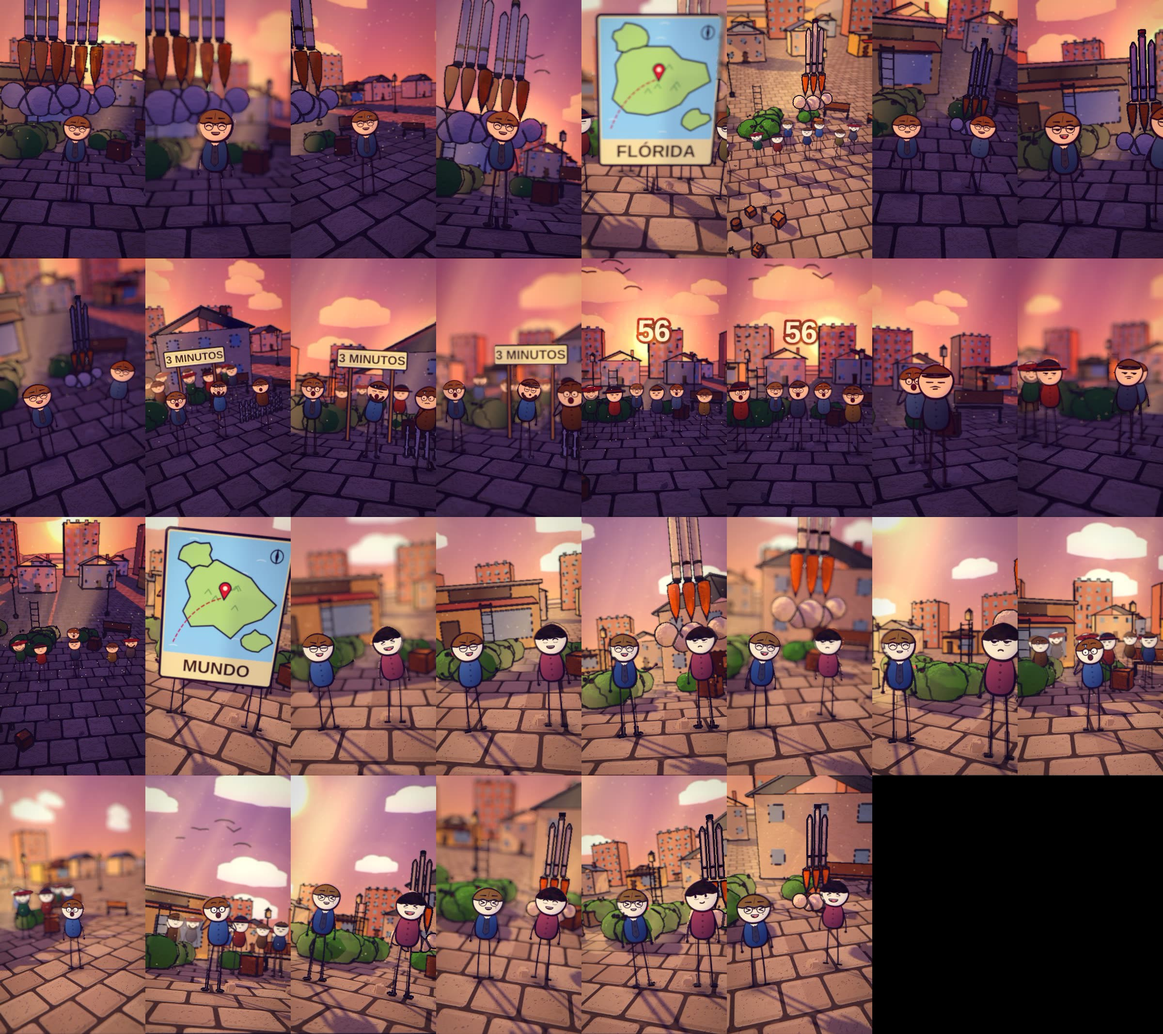
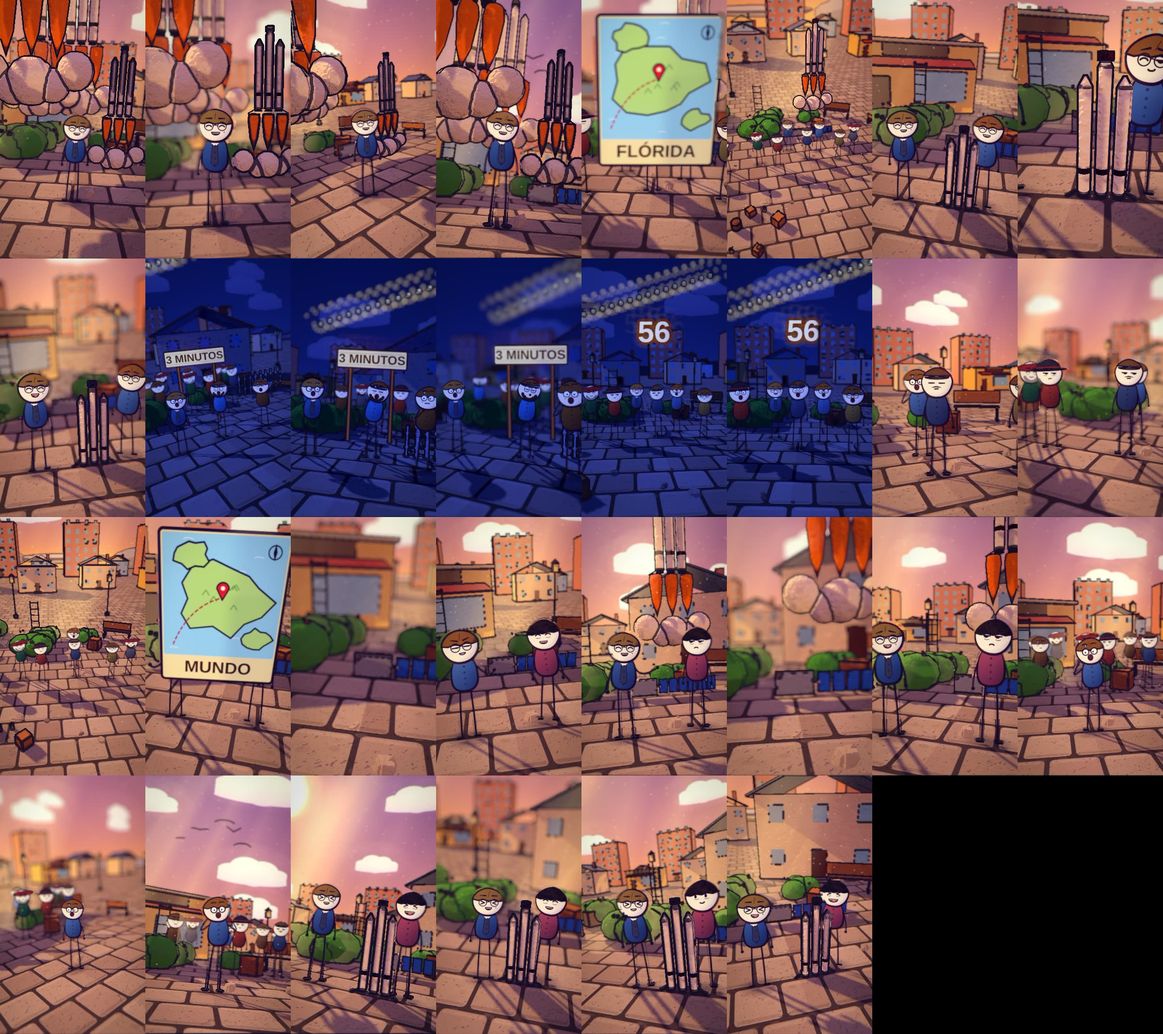
merge do principal (modelos Starlink); PF 04 com fila de luzes de noite
Claude-Session: https://claude.ai/code/session_01HE8Dy3Tz5Mgz6d3rSUrMHS

diff --git a/ferramenta-shorts/web/story.js b/ferramenta-shorts/web/story.js
@@ -29,19 +29,19 @@ const SPEC = {
     JOR2: (v = 0, e = {}) => ({ _id: "jor2", jacket: "#9a4a5a", pants: "#2a2d33", boots: "#1b1b1f", hat: "hair", hair: "#1a1a1a", fixo: true, skin: ["#ffe2c2", "#f5c9a0", "#ecd0b6", "#c99067"][v % 4], ...(((v + 285) % 6 === 4 && false) ? { glasses: true } : {}), ...(([1, 5].includes((v + 285) % 6) && false) ? { beard: ['#3a2a1f', '#6b4a2a', '#8a8a86'][(v + 4) % 3] } : {}), ...((((v + 285) % 6 === 3) && false) ? { moustache: ['#4a3020', '#2a201a', '#8a8a86'][v % 3] } : {}), ...e }),
     POV: (v = 0, e = {}) => ({ _id: "pov", jacket: "#3f6fb5", pants: "#4a3a2a", boots: "#1b1b1f", skin: ["#ffe2c2", "#f5c9a0", "#ecd0b6", "#c99067"][v % 4], jacket: ["#3f6fb5", "#6a4a2a", "#2a5a3a", "#8a3a2a", "#3a4a6a", "#7a6a3a", "#5a5a62", "#b0524a"][v % 8], hat: ["cap", "hair", "beret", "bowler"][v % 4], ...(((v + 245) % 6 === 4 && true) ? { glasses: true } : {}), ...(([1, 5].includes((v + 245) % 6) && true) ? { beard: ['#3a2a1f', '#6b4a2a', '#8a8a86'][(v + 3) % 3] } : {}), ...((((v + 245) % 6 === 3) && true) ? { moustache: ['#4a3020', '#2a201a', '#8a8a86'][v % 3] } : {}), ...e }),
     AST: (v = 0, e = {}) => ({ _id: "ast", jacket: "#3a5a8a", pants: "#2a2d33", boots: "#1b1b1f", hat: "hair", hair: "#8a6a3a", glasses: true, tie: "#3b3f52", fixo: true, skin: ["#ffe2c2", "#f5c9a0", "#ecd0b6", "#c99067"][v % 4], ...(((v + 232) % 6 === 4 && false) ? { glasses: true } : {}), ...(([1, 5].includes((v + 232) % 6) && false) ? { beard: ['#3a2a1f', '#6b4a2a', '#8a8a86'][(v + 3) % 3] } : {}), ...((((v + 232) % 6 === 3) && false) ? { moustache: ['#4a3020', '#2a201a', '#8a8a86'][v % 3] } : {}), ...e }) },
-  assets: ["buildings/house_two", "buildings/shop", "kit/falcon_air", "kit/rocket", "nature/picket_fence"],
+  assets: ["buildings/house_two", "buildings/shop", "kit/falcon_air", "kit/rocket", "kit/starlink_sat", "kit/starlink_train", "nature/picket_fence"],
   kicks: [], flashes: [],
   shots: [
-    S('b0', A[0], A[1] - 1, X, "dusk", { h: 2.3, d0: 8.4, d1: 7.4, hero: { hero: 'any', frame: 'medium', minH: 0.07, main: 1 }, actors: [pp(X, "AST", 0, 0.0, 1.3, "grin", { pose: 'talk' })], props: [{ asset: "buildings/shop", at: [X + -4.8, -11.0], s: 1.05, ry: 0.35, drop: false }, { asset: "kit/falcon_air", at: [X + 0, -3], s: 1.0, drop: false }, { asset: "kit/falcon_air", at: [X + 1.3, 1.0], s: 0.5, drop: false }, { asset: "kit/falcon_air", at: [X + -1.7, -0.5], s: 1.3, drop: false }, { asset: "kit/falcon_air", at: [X + -1.7, -2.3], s: 1.0, drop: false }], fx: [{ k: 'birds', a: A[0], b: A[1] - 1, at: [X, DK + 4.5, -30], n: 4, dir: 1, off: 8 }] }),
-    { ...{ ...S('b1', A[1], A[2] - 1, X, "golden", { h: 2.4, d0: 11.0, d1: 27.0, el: 10, fov: 46, cx: 0.0, cz: -1.5, hero: { hero: 'none', wide: true }, vary: false, nocut: true, trans: 'dissolve', actors: [pp(X, "AST", 0, -1.15, -0.4, "smug"), pp(X, "JOR", 0, 1.15, 0.2, "suspicious"), pp(X, "POV", 0, -8.05, 0.84, "neutral", { look: -0.25, seed: 0 }), pp(X, "POV", 1, -5.79, 1.32, "neutral", { look: 0.25, seed: 1 }), pp(X, "POV", 2, -3.53, 0.96, "neutral", { look: 0.0, seed: 2 }), pp(X, "POV", 3, -2.26, 1.44, "neutral", { look: 0.15, seed: 3 }), pp(X, "POV", 4, 0.0, 1.08, "neutral", { look: -0.25, seed: 0 }), pp(X, "POV", 5, 2.26, 1.56, "neutral", { look: 0.25, seed: 1 }), pp(X, "POV", 6, 3.53, 1.2, "neutral", { look: 0.0, seed: 2 }), pp(X, "POV", 0, 5.79, 0.84, "neutral", { look: 0.15, seed: 3 })], props: [{ asset: "kit/falcon_air", at: [X + 1.5, -3], s: 1.0, drop: false }], fx: [{ k: 'map', a: WS(21, -2), b: Math.min(A[2] - 1, WS(21, -2) + 54), text: "FLÓRIDA" }] }), nocut: true }, cam: [{ f: A[1], at: [X + 0.0, DK + 2.0, 0.5], d: 9, az: 10, el: 5, fov: 46 }, { f: A[2] - 1, at: [X + 0.0, DK + 1.0, -2.0], d: 30, az: -14, el: 30, fov: 48 }], nocut: true },
-    S('b2', A[2], Math.round(A[2] + (A[3] - 1 + 1 - (A[2])) * 0.36) - 1, X, "dusk", { h: 2.3, d0: 8.4, d1: 7.4, hero: { hero: 'any', frame: 'medium', minH: 0.07, main: 2 }, trans: 'dissolve', actors: [pp(X, "AST", 0, -1.15, 1.3, "grin", { pose: 'talk', inter: { k: 'step', a: Math.round(A[2] + (A[3] - 1 - (A[2])) * 0.12), b: Math.round(A[2] + (A[3] - 1 - (A[2])) * 0.82), dir: 1, n: 2, ph: 0 } }), pp(X, "JOR", 0, 1.15, 1.0, "smug", { pose: 'talk', inter: { k: 'recoil', a: Math.round(A[2] + (A[3] - 1 - (A[2])) * 0.2), b: Math.round(A[2] + (A[3] - 1 - (A[2])) * 0.9), dir: -1, n: 2, ph: 3.14 } })], props: [{ asset: "buildings/shop", at: [X + -4.8, -11.0], s: 1.05, ry: 0.35, drop: false }, { asset: "kit/rocket", at: [X + 0.5, 1.2], s: 0.6, drop: false }], fx: [{ k: 'birds', a: A[2], b: A[3] - 1, at: [X, DK + 7.5, -30], n: 6, dir: -1, off: 8 }] }), { ...S('b2_d', Math.round(A[2] + (A[3] - 1 + 1 - (A[2])) * 0.36), Math.round(A[2] + (A[3] - 1 + 1 - (A[2])) * 0.6) - 1, X, "dusk", { h: 2.3, d0: 8.4, d1: 7.4, hero: { hero: 'none', detalhe: true }, trans: 'cut', actors: [pp(X, "AST", 0, -1.15, 1.3, "grin", { pose: 'stand' }), pp(X, "JOR", 0, 1.15, 1.0, "smug", { pose: 'stand' })], props: [{ asset: "buildings/shop", at: [X + -4.8, -11.0], s: 1.05, drop: false, ry: 0.35, drop: false }, { asset: "kit/rocket", at: [X + 0.5, 1.2], s: 0.6, drop: false }], fx: [{ k: 'birds', a: A[2], b: A[3] - 1, at: [X, DK + 7.5, -30], n: 6, dir: -1, off: 8 }] }), cam: [{ f: Math.round(A[2] + (A[3] - 1 + 1 - (A[2])) * 0.36), at: [X + 0.5, DK + 0.45, 1.2], d: 4.2, az: -14, el: 10, fov: 44 }, { f: Math.round(A[2] + (A[3] - 1 + 1 - (A[2])) * 0.6) - 1, at: [X + 0.5, DK + 0.45, 1.2], d: 3.4, az: -8, el: 9, fov: 44 }], nocut: true, vary: false, glide: true, glideN: 34 }, { ...S('b2_v', Math.round(A[2] + (A[3] - 1 + 1 - (A[2])) * 0.6), A[3] - 1, X, "dusk", { h: 2.3, d0: 8.4, d1: 7.4, hero: { hero: 'any', frame: 'medium', minH: 0.07, main: 2 }, trans: 'cut', actors: [pp(X, "AST", 0, -1.15, 1.3, "grin", { pose: 'talk', inter: { k: 'step', a: Math.round(A[2] + (A[3] - 1 - (A[2])) * 0.12), b: Math.round(A[2] + (A[3] - 1 - (A[2])) * 0.82), dir: 1, n: 2, ph: 0 } }), pp(X, "JOR", 0, 1.15, 1.0, "smug", { pose: 'talk', inter: { k: 'recoil', a: Math.round(A[2] + (A[3] - 1 - (A[2])) * 0.2), b: Math.round(A[2] + (A[3] - 1 - (A[2])) * 0.9), dir: -1, n: 2, ph: 3.14 } })], props: [{ asset: "buildings/shop", at: [X + -4.8, -11.0], s: 1.05, drop: false, ry: 0.35, drop: false }, { asset: "kit/rocket", at: [X + 0.5, 1.2], s: 0.6, drop: false }], fx: [{ k: 'birds', a: A[2], b: A[3] - 1, at: [X, DK + 7.5, -30], n: 6, dir: -1, off: 8 }] }), glide: true, glideN: 34 },
-    S('b3', A[3], A[4] - 1, X, "dusk", { h: 2.5, d0: 11.3, d1: 9.944, cx: 0.0, cz: 1.2, hero: { hero: 'any', frame: 'medium', minH: 0.07, main: 3 }, trans: 'dissolve', actors: [pp(X, "AST", 0, -2.1, 1.3, "shock", { pose: 'react', inter: { k: 'lean', a: Math.round(A[3] + (A[4] - 1 - (A[3])) * 0.12), b: Math.round(A[3] + (A[4] - 1 - (A[3])) * 0.82), dir: 1, n: 2, ph: 0 } }), pp(X, "POV", 0, 0.0, 1.0, "shock", { pose: 'react', inter: { k: 'recoil', a: Math.round(A[3] + (A[4] - 1 - (A[3])) * 0.2), b: Math.round(A[3] + (A[4] - 1 - (A[3])) * 0.9), dir: -1, n: 2, ph: 3.14 } }), pp(X, "POV", 1, 2.1, 1.6, "shock", { pose: 'react' }), pp(X, "POV", 0, -3.85, -3.36, "neutral", { look: -0.25, seed: 0 }), pp(X, "POV", 1, -1.79, -2.88, "neutral", { look: 0.25, seed: 1 }), pp(X, "POV", 2, 0.27, -3.24, "neutral", { look: 0.0, seed: 2 }), pp(X, "POV", 3, 1.34, -2.76, "neutral", { look: 0.15, seed: 3 }), pp(X, "POV", 4, 3.4, -3.12, "neutral", { look: -0.25, seed: 0 }), pp(X, "POV", 5, -2.14, -4.74, "neutral", { look: 0.25, seed: 1 }), pp(X, "POV", 6, -1.07, -5.1, "neutral", { look: 0.0, seed: 2 }), pp(X, "POV", 0, 0.99, -5.46, "neutral", { look: 0.15, seed: 3 }), pp(X, "POV", 1, 3.05, -4.98, "neutral", { look: -0.25, seed: 0 }), pp(X, "POV", 2, 4.12, -5.34, "neutral", { look: 0.25, seed: 1 })], props: [{ asset: "buildings/house_two", at: [X + 4.8, -11.0], s: 1.05, ry: -0.35, drop: false }, { asset: "nature/picket_fence", at: [X + 3.1, 0.2], s: 1.2 }], fx: [{ k: 'text', a: A[3], b: A[4] - 1, at: [X + 0.0, DK, -1.3], text: "3 MINUTOS", s: 2.625, col: '#3a2416', size: 120, board: true }, { k: "stars", a: A[3] + 40, b: A[3] + 66, at: [X, DK + 0.5, 1.2], s: 1.1 }] }),
-    { ...S('b4', A[4], A[5] - 1, X, "dusk", { h: 2.4, d0: 20, d1: 16, el: 5, fov: 46, cx: 0.0, cz: -1.5, hero: { hero: 'none', wide: true }, vary: false, nocut: true, trans: 'dissolve', actors: [pp(X, "AST", 0, -1.15, -0.4, "grin"), pp(X, "JOR", 0, 1.15, 0.2, "shock", { pose: 'react' }), pp(X, "POV", 0, -8.05, 0.84, "neutral", { look: -0.25, seed: 0 }), pp(X, "POV", 1, -5.79, 1.32, "neutral", { look: 0.25, seed: 1 }), pp(X, "POV", 2, -3.53, 0.96, "neutral", { look: 0.0, seed: 2 }), pp(X, "POV", 3, -2.26, 1.44, "neutral", { look: 0.15, seed: 3 }), pp(X, "POV", 4, 0.0, 1.08, "neutral", { look: -0.25, seed: 0 }), pp(X, "POV", 5, 2.26, 1.56, "neutral", { look: 0.25, seed: 1 })], fx: [{ k: 'birds', a: A[4], b: A[5] - 1, at: [X, DK + 6.0, -30], n: 5, dir: 1, off: 8 }, txt(X, WS(65, -2), A[5] - 1, "56", '#fff6e0', '#7a3a1c', 4.6, { s: 1.5, up: 0.42 })] }), nocut: true },
-    { ...{ ...S('b5', A[5], Math.round(A[5] + (A[6] - 1 + 1 - (A[5])) * 0.3) - 1, X, "dusk", { h: 2.6, d0: 25.0, d1: 19.0, el: 11, cx: 0.0, cz: -1.5, hero: { hero: 'none', wide: true }, vary: false, nocut: true, trans: 'dissolve', actors: [pp(X, "JOR", 0, 0.0, -0.4, "shock", { pose: 'react' }), pp(X, "POV", 0, -8.05, 0.84, "neutral", { look: -0.25, seed: 0 }), pp(X, "POV", 1, -5.79, 1.32, "neutral", { look: 0.25, seed: 1 }), pp(X, "POV", 2, -3.53, 0.96, "neutral", { look: 0.0, seed: 2 }), pp(X, "POV", 3, -2.26, 1.44, "neutral", { look: 0.15, seed: 3 }), pp(X, "POV", 4, 0.0, 1.08, "neutral", { look: -0.25, seed: 0 }), pp(X, "POV", 5, 2.26, 1.56, "neutral", { look: 0.25, seed: 1 }), pp(X, "POV", 6, 3.53, 1.2, "neutral", { look: 0.0, seed: 2 }), pp(X, "POV", 0, 5.79, 0.84, "neutral", { look: 0.15, seed: 3 }), pp(X, "POV", 1, 8.05, 1.32, "neutral", { look: -0.25, seed: 0 }), pp(X, "POV", 2, -6.88, -1.14, "neutral", { look: 0.25, seed: 1 })], fx: [{ k: 'birds', a: A[5], b: A[6] - 1, at: [X, DK + 7.5, -30], n: 6, dir: 1, off: 15 }, { k: 'burst', a: A[5] + 40, at: [X + 0.0, DK + 1.8, 3.2], s: 1.2 }] }), nocut: true }, cam: [{ f: A[5], at: [X + 0.0, DK + 2.2, 0.5], d: 8.5, az: -26, el: 2, fov: 44 }, { f: Math.round(A[5] + (A[6] - 1 + 1 - (A[5])) * 0.3) - 1, at: [X + 1.0, DK + 2.2, 0.5], d: 7.4, az: -14, el: 3, fov: 44 }], nocut: true, vary: false }, { ...{ ...S('b5_1', Math.round(A[5] + (A[6] - 1 + 1 - (A[5])) * 0.3), Math.round(A[5] + (A[6] - 1 + 1 - (A[5])) * 0.55) - 1, X, "dusk", { h: 2.6, d0: 25.0, d1: 19.0, el: 11, cx: 0.0, cz: -1.5, hero: { hero: 'none', wide: true }, vary: false, nocut: true, trans: 'cut', actors: [pp(X, "JOR", 0, 0.0, -0.4, "shock", { pose: 'react' }), pp(X, "POV", 0, -8.05, 0.84, "neutral", { look: -0.25, seed: 0 }), pp(X, "POV", 1, -5.79, 1.32, "neutral", { look: 0.25, seed: 1 }), pp(X, "POV", 2, -3.53, 0.96, "neutral", { look: 0.0, seed: 2 }), pp(X, "POV", 3, -2.26, 1.44, "neutral", { look: 0.15, seed: 3 }), pp(X, "POV", 4, 0.0, 1.08, "neutral", { look: -0.25, seed: 0 }), pp(X, "POV", 5, 2.26, 1.56, "neutral", { look: 0.25, seed: 1 }), pp(X, "POV", 6, 3.53, 1.2, "neutral", { look: 0.0, seed: 2 }), pp(X, "POV", 0, 5.79, 0.84, "neutral", { look: 0.15, seed: 3 }), pp(X, "POV", 1, 8.05, 1.32, "neutral", { look: -0.25, seed: 0 }), pp(X, "POV", 2, -6.88, -1.14, "neutral", { look: 0.25, seed: 1 })], fx: [{ k: 'birds', a: A[5], b: A[6] - 1, at: [X, DK + 7.5, -30], n: 6, dir: 1, off: 15 }, { k: 'burst', a: A[5] + 40, at: [X + 0.0, DK + 1.8, 3.2], s: 1.2 }] }), nocut: true }, cam: [{ f: Math.round(A[5] + (A[6] - 1 + 1 - (A[5])) * 0.3), at: [X + -6.0, DK + 1.8, 0.0], d: 11, az: 30, el: 5, fov: 46 }, { f: Math.round(A[5] + (A[6] - 1 + 1 - (A[5])) * 0.55) - 1, at: [X + 4.0, DK + 1.8, 0.0], d: 11, az: 18, el: 5, fov: 46, ease: "lin" }], nocut: true, vary: false, glide: true }, { ...{ ...S('b5_2', Math.round(A[5] + (A[6] - 1 + 1 - (A[5])) * 0.55), A[6] - 1, X, "dusk", { h: 2.6, d0: 25.0, d1: 19.0, el: 11, cx: 0.0, cz: -1.5, hero: { hero: 'none', wide: true }, vary: false, nocut: true, trans: 'cut', actors: [pp(X, "JOR", 0, 0.0, -0.4, "shock", { pose: 'react' }), pp(X, "POV", 0, -8.05, 0.84, "neutral", { look: -0.25, seed: 0 }), pp(X, "POV", 1, -5.79, 1.32, "neutral", { look: 0.25, seed: 1 }), pp(X, "POV", 2, -3.53, 0.96, "neutral", { look: 0.0, seed: 2 }), pp(X, "POV", 3, -2.26, 1.44, "neutral", { look: 0.15, seed: 3 }), pp(X, "POV", 4, 0.0, 1.08, "neutral", { look: -0.25, seed: 0 }), pp(X, "POV", 5, 2.26, 1.56, "neutral", { look: 0.25, seed: 1 }), pp(X, "POV", 6, 3.53, 1.2, "neutral", { look: 0.0, seed: 2 }), pp(X, "POV", 0, 5.79, 0.84, "neutral", { look: 0.15, seed: 3 }), pp(X, "POV", 1, 8.05, 1.32, "neutral", { look: -0.25, seed: 0 }), pp(X, "POV", 2, -6.88, -1.14, "neutral", { look: 0.25, seed: 1 })], fx: [{ k: 'birds', a: A[5], b: A[6] - 1, at: [X, DK + 7.5, -30], n: 6, dir: 1, off: 15 }, { k: 'burst', a: A[5] + 40, at: [X + 0.0, DK + 1.8, 3.2], s: 1.2 }] }), nocut: true }, cam: [{ f: Math.round(A[5] + (A[6] - 1 + 1 - (A[5])) * 0.55), at: [X + 0.0, DK + 1.4, 0.0], d: 15, az: 8, el: 12, fov: 48 }, { f: A[6] - 1, at: [X + 0.0, DK + 1.0, -3.0], d: 34, az: -16, el: 30, fov: 48 }], nocut: true, vary: false, glide: true },
-    S('b6', A[6], A[7] - 1, X, "golden", { h: 2.3, d0: 8.4, d1: 7.4, hero: { hero: 'any', frame: 'medium', minH: 0.07, main: 2 }, trans: 'dissolve', actors: [pp(X, "JOR", 0, -1.15, 1.3, "suspicious", { pose: 'talk', inter: { k: 'nod', a: Math.round(A[6] + (A[7] - 1 - (A[6])) * 0.12), b: Math.round(A[6] + (A[7] - 1 - (A[6])) * 0.82), dir: 1, n: 2, ph: 0 } }), pp(X, "JOR2", 0, 1.15, 1.0, "laugh", { pose: 'talk', inter: { k: 'lean', a: Math.round(A[6] + (A[7] - 1 - (A[6])) * 0.2), b: Math.round(A[6] + (A[7] - 1 - (A[6])) * 0.9), dir: -1, n: 2, ph: 3.14 } })], props: [{ asset: "buildings/shop", at: [X + -4.8, -11.0], s: 1.05, ry: 0.35, drop: false }], fx: [{ k: 'map', a: WS(93, -2), b: Math.min(A[7] - 1, WS(93, -2) + 54), text: "MUNDO" }] }),
-    S('b7', A[7], A[8] - 1, X, "golden", { h: 2.3, d0: 8.4, d1: 7.4, hero: { hero: 'any', frame: 'medium', minH: 0.07, main: 2 }, trans: 'dissolve', actors: [pp(X, "AST", 0, -1.15, 1.3, "smug", { pose: 'talk', inter: { k: 'lunge', a: Math.round(A[7] + (A[8] - 1 - (A[7])) * 0.12), b: Math.round(A[7] + (A[8] - 1 - (A[7])) * 0.82), dir: 1, n: 2, ph: 0 } }), pp(X, "JOR2", 0, 1.15, 1.0, "suspicious", { pose: 'talk', inter: { k: 'nod', a: Math.round(A[7] + (A[8] - 1 - (A[7])) * 0.2), b: Math.round(A[7] + (A[8] - 1 - (A[7])) * 0.9), dir: -1, n: 2, ph: 3.14 } })], props: [{ asset: "buildings/house_two", at: [X + 4.8, -11.0], s: 1.05, ry: -0.35, drop: false }, { asset: "kit/falcon_air", at: [X + 1.5, -3], s: 1.0, drop: false }] }),
+    S('b0', A[0], A[1] - 1, X, "golden", { h: 2.3, d0: 8.4, d1: 7.4, hero: { hero: 'any', frame: 'medium', minH: 0.07, main: 1 }, actors: [pp(X, "AST", 0, 0.0, 1.3, "grin", { pose: 'talk' })], props: [{ asset: "buildings/shop", at: [X + -4.8, -11.0], s: 1.05, ry: 0.35, drop: false }, { asset: "kit/falcon_air", at: [X + 0, -3], s: 1.0, drop: false }, { asset: "kit/falcon_air", at: [X + 1.3, 1.0], s: 0.5, drop: false }, { asset: "kit/falcon_air", at: [X + -1.7, -0.5], s: 1.3, drop: false }, { asset: "kit/falcon_air", at: [X + -1.7, -2.3], s: 1.0, drop: false }, { asset: "kit/starlink_sat", at: [X + 1.7, -2.3], s: 1.0, drop: false }], fx: [{ k: 'birds', a: A[0], b: A[1] - 1, at: [X, DK + 4.5, -30], n: 4, dir: 1, off: 8 }] }),
+    { ...{ ...S('b1', A[1], A[2] - 1, X, "golden", { h: 2.4, d0: 11.0, d1: 27.0, el: 10, fov: 46, cx: 0.0, cz: -1.5, hero: { hero: 'none', wide: true }, vary: false, nocut: true, trans: 'dissolve', actors: [pp(X, "AST", 0, -1.15, -0.4, "smug"), pp(X, "JOR", 0, 1.15, 0.2, "suspicious"), pp(X, "POV", 0, -8.05, 0.84, "neutral", { look: -0.25, seed: 0 }), pp(X, "POV", 1, -5.79, 1.32, "neutral", { look: 0.25, seed: 1 }), pp(X, "POV", 2, -3.53, 0.96, "neutral", { look: 0.0, seed: 2 }), pp(X, "POV", 3, -2.26, 1.44, "neutral", { look: 0.15, seed: 3 }), pp(X, "POV", 4, 0.0, 1.08, "neutral", { look: -0.25, seed: 0 }), pp(X, "POV", 5, 2.26, 1.56, "neutral", { look: 0.25, seed: 1 }), pp(X, "POV", 6, 3.53, 1.2, "neutral", { look: 0.0, seed: 2 }), pp(X, "POV", 0, 5.79, 0.84, "neutral", { look: 0.15, seed: 3 })], props: [{ asset: "kit/falcon_air", at: [X + 1.5, -3], s: 1.0, drop: false }, { asset: "kit/starlink_sat", at: [X + 0.0, -2.3], s: 1.0, drop: false }], fx: [{ k: 'map', a: WS(21, -2), b: Math.min(A[2] - 1, WS(21, -2) + 54), text: "FLÓRIDA" }] }), nocut: true }, cam: [{ f: A[1], at: [X + 0.0, DK + 2.0, 0.5], d: 9, az: 10, el: 5, fov: 46 }, { f: A[2] - 1, at: [X + 0.0, DK + 1.0, -2.0], d: 30, az: -14, el: 30, fov: 48 }], nocut: true },
+    S('b2', A[2], Math.round(A[2] + (A[3] - 1 + 1 - (A[2])) * 0.36) - 1, X, "golden", { h: 2.3, d0: 8.4, d1: 7.4, hero: { hero: 'any', frame: 'medium', minH: 0.07, main: 2 }, trans: 'dissolve', actors: [pp(X, "AST", 0, -1.15, 1.3, "grin", { pose: 'talk', inter: { k: 'step', a: Math.round(A[2] + (A[3] - 1 - (A[2])) * 0.12), b: Math.round(A[2] + (A[3] - 1 - (A[2])) * 0.82), dir: 1, n: 2, ph: 0 } }), pp(X, "JOR", 0, 1.15, 1.0, "smug", { pose: 'talk', inter: { k: 'recoil', a: Math.round(A[2] + (A[3] - 1 - (A[2])) * 0.2), b: Math.round(A[2] + (A[3] - 1 - (A[2])) * 0.9), dir: -1, n: 2, ph: 3.14 } })], props: [{ asset: "buildings/shop", at: [X + -4.8, -11.0], s: 1.05, ry: 0.35, drop: false }, { asset: "kit/rocket", at: [X + 0.5, 1.2], s: 0.6, drop: false }, { asset: "kit/starlink_sat", at: [X + 0.0, -2.3], s: 1.0, drop: false }], fx: [{ k: 'birds', a: A[2], b: A[3] - 1, at: [X, DK + 7.5, -30], n: 6, dir: -1, off: 8 }] }), { ...S('b2_d', Math.round(A[2] + (A[3] - 1 + 1 - (A[2])) * 0.36), Math.round(A[2] + (A[3] - 1 + 1 - (A[2])) * 0.6) - 1, X, "golden", { h: 2.3, d0: 8.4, d1: 7.4, hero: { hero: 'none', detalhe: true }, trans: 'cut', actors: [pp(X, "AST", 0, -1.15, 1.3, "grin", { pose: 'stand' }), pp(X, "JOR", 0, 1.15, 1.0, "smug", { pose: 'stand' })], props: [{ asset: "buildings/shop", at: [X + -4.8, -11.0], s: 1.05, drop: false, ry: 0.35, drop: false }, { asset: "kit/rocket", at: [X + 0.5, 1.2], s: 0.6, drop: false }, { asset: "kit/starlink_sat", at: [X + 0.0, -2.3], s: 1.0, drop: false }], fx: [{ k: 'birds', a: A[2], b: A[3] - 1, at: [X, DK + 7.5, -30], n: 6, dir: -1, off: 8 }] }), cam: [{ f: Math.round(A[2] + (A[3] - 1 + 1 - (A[2])) * 0.36), at: [X + 0.5, DK + 0.45, 1.2], d: 4.2, az: -14, el: 10, fov: 44 }, { f: Math.round(A[2] + (A[3] - 1 + 1 - (A[2])) * 0.6) - 1, at: [X + 0.5, DK + 0.45, 1.2], d: 3.4, az: -8, el: 9, fov: 44 }], nocut: true, vary: false, glide: true, glideN: 34 }, { ...S('b2_v', Math.round(A[2] + (A[3] - 1 + 1 - (A[2])) * 0.6), A[3] - 1, X, "golden", { h: 2.3, d0: 8.4, d1: 7.4, hero: { hero: 'any', frame: 'medium', minH: 0.07, main: 2 }, trans: 'cut', actors: [pp(X, "AST", 0, -1.15, 1.3, "grin", { pose: 'talk', inter: { k: 'step', a: Math.round(A[2] + (A[3] - 1 - (A[2])) * 0.12), b: Math.round(A[2] + (A[3] - 1 - (A[2])) * 0.82), dir: 1, n: 2, ph: 0 } }), pp(X, "JOR", 0, 1.15, 1.0, "smug", { pose: 'talk', inter: { k: 'recoil', a: Math.round(A[2] + (A[3] - 1 - (A[2])) * 0.2), b: Math.round(A[2] + (A[3] - 1 - (A[2])) * 0.9), dir: -1, n: 2, ph: 3.14 } })], props: [{ asset: "buildings/shop", at: [X + -4.8, -11.0], s: 1.05, drop: false, ry: 0.35, drop: false }, { asset: "kit/rocket", at: [X + 0.5, 1.2], s: 0.6, drop: false }, { asset: "kit/starlink_sat", at: [X + 0.0, -2.3], s: 1.0, drop: false }], fx: [{ k: 'birds', a: A[2], b: A[3] - 1, at: [X, DK + 7.5, -30], n: 6, dir: -1, off: 8 }] }), glide: true, glideN: 34 },
+    S('b3', A[3], A[4] - 1, X, "night", { h: 2.5, d0: 11.3, d1: 9.944, cx: 0.0, cz: 1.2, hero: { hero: 'any', frame: 'medium', minH: 0.07, main: 3 }, trans: 'dissolve', actors: [pp(X, "AST", 0, -2.1, 1.3, "shock", { pose: 'react', inter: { k: 'lean', a: Math.round(A[3] + (A[4] - 1 - (A[3])) * 0.12), b: Math.round(A[3] + (A[4] - 1 - (A[3])) * 0.82), dir: 1, n: 2, ph: 0 } }), pp(X, "POV", 0, 0.0, 1.0, "shock", { pose: 'react', inter: { k: 'recoil', a: Math.round(A[3] + (A[4] - 1 - (A[3])) * 0.2), b: Math.round(A[3] + (A[4] - 1 - (A[3])) * 0.9), dir: -1, n: 2, ph: 3.14 } }), pp(X, "POV", 1, 2.1, 1.6, "shock", { pose: 'react' }), pp(X, "POV", 0, -3.85, -3.36, "neutral", { look: -0.25, seed: 0 }), pp(X, "POV", 1, -1.79, -2.88, "neutral", { look: 0.25, seed: 1 }), pp(X, "POV", 2, 0.27, -3.24, "neutral", { look: 0.0, seed: 2 }), pp(X, "POV", 3, 1.34, -2.76, "neutral", { look: 0.15, seed: 3 }), pp(X, "POV", 4, 3.4, -3.12, "neutral", { look: -0.25, seed: 0 }), pp(X, "POV", 5, -2.14, -4.74, "neutral", { look: 0.25, seed: 1 }), pp(X, "POV", 6, -1.07, -5.1, "neutral", { look: 0.0, seed: 2 }), pp(X, "POV", 0, 0.99, -5.46, "neutral", { look: 0.15, seed: 3 }), pp(X, "POV", 1, 3.05, -4.98, "neutral", { look: -0.25, seed: 0 }), pp(X, "POV", 2, 4.12, -5.34, "neutral", { look: 0.25, seed: 1 })], props: [{ asset: "buildings/house_two", at: [X + 4.8, -11.0], s: 1.05, ry: -0.35, drop: false }, { asset: "kit/starlink_train", at: [X + 0, -16.0], s: 1.4, drop: false }, { asset: "nature/picket_fence", at: [X + 3.1, 0.2], s: 1.2 }], fx: [{ k: 'text', a: A[3], b: A[4] - 1, at: [X + 0.0, DK, -1.3], text: "3 MINUTOS", s: 2.625, col: '#3a2416', size: 120, board: true }, { k: "stars", a: A[3] + 40, b: A[3] + 66, at: [X, DK + 0.5, 1.2], s: 1.1 }] }),
+    { ...S('b4', A[4], A[5] - 1, X, "night", { h: 2.4, d0: 20, d1: 16, el: 5, fov: 46, cx: 0.0, cz: -1.5, hero: { hero: 'none', wide: true }, vary: false, nocut: true, trans: 'dissolve', actors: [pp(X, "AST", 0, -1.15, -0.4, "grin"), pp(X, "JOR", 0, 1.15, 0.2, "shock", { pose: 'react' }), pp(X, "POV", 0, -8.05, 0.84, "neutral", { look: -0.25, seed: 0 }), pp(X, "POV", 1, -5.79, 1.32, "neutral", { look: 0.25, seed: 1 }), pp(X, "POV", 2, -3.53, 0.96, "neutral", { look: 0.0, seed: 2 }), pp(X, "POV", 3, -2.26, 1.44, "neutral", { look: 0.15, seed: 3 }), pp(X, "POV", 4, 0.0, 1.08, "neutral", { look: -0.25, seed: 0 }), pp(X, "POV", 5, 2.26, 1.56, "neutral", { look: 0.25, seed: 1 })], props: [{ asset: "kit/starlink_train", at: [X + 0, -16.0], s: 1.4, drop: false }], fx: [txt(X, WS(65, -2), A[5] - 1, "56", '#fff6e0', '#7a3a1c', 4.6, { s: 1.5, up: 0.42 })] }), nocut: true },
+    { ...{ ...S('b5', A[5], Math.round(A[5] + (A[6] - 1 + 1 - (A[5])) * 0.3) - 1, X, "golden", { h: 2.6, d0: 25.0, d1: 19.0, el: 11, cx: 0.0, cz: -1.5, hero: { hero: 'none', wide: true }, vary: false, nocut: true, trans: 'dissolve', actors: [pp(X, "JOR", 0, 0.0, -0.4, "shock", { pose: 'react' }), pp(X, "POV", 0, -8.05, 0.84, "neutral", { look: -0.25, seed: 0 }), pp(X, "POV", 1, -5.79, 1.32, "neutral", { look: 0.25, seed: 1 }), pp(X, "POV", 2, -3.53, 0.96, "neutral", { look: 0.0, seed: 2 }), pp(X, "POV", 3, -2.26, 1.44, "neutral", { look: 0.15, seed: 3 }), pp(X, "POV", 4, 0.0, 1.08, "neutral", { look: -0.25, seed: 0 }), pp(X, "POV", 5, 2.26, 1.56, "neutral", { look: 0.25, seed: 1 }), pp(X, "POV", 6, 3.53, 1.2, "neutral", { look: 0.0, seed: 2 }), pp(X, "POV", 0, 5.79, 0.84, "neutral", { look: 0.15, seed: 3 }), pp(X, "POV", 1, 8.05, 1.32, "neutral", { look: -0.25, seed: 0 }), pp(X, "POV", 2, -6.88, -1.14, "neutral", { look: 0.25, seed: 1 })], fx: [{ k: 'birds', a: A[5], b: A[6] - 1, at: [X, DK + 7.5, -30], n: 6, dir: 1, off: 15 }, { k: 'burst', a: A[5] + 40, at: [X + 0.0, DK + 1.8, 3.2], s: 1.2 }] }), nocut: true }, cam: [{ f: A[5], at: [X + 0.0, DK + 2.2, 0.5], d: 8.5, az: -26, el: 2, fov: 44 }, { f: Math.round(A[5] + (A[6] - 1 + 1 - (A[5])) * 0.3) - 1, at: [X + 1.0, DK + 2.2, 0.5], d: 7.4, az: -14, el: 3, fov: 44 }], nocut: true, vary: false }, { ...{ ...S('b5_1', Math.round(A[5] + (A[6] - 1 + 1 - (A[5])) * 0.3), Math.round(A[5] + (A[6] - 1 + 1 - (A[5])) * 0.55) - 1, X, "golden", { h: 2.6, d0: 25.0, d1: 19.0, el: 11, cx: 0.0, cz: -1.5, hero: { hero: 'none', wide: true }, vary: false, nocut: true, trans: 'cut', actors: [pp(X, "JOR", 0, 0.0, -0.4, "shock", { pose: 'react' }), pp(X, "POV", 0, -8.05, 0.84, "neutral", { look: -0.25, seed: 0 }), pp(X, "POV", 1, -5.79, 1.32, "neutral", { look: 0.25, seed: 1 }), pp(X, "POV", 2, -3.53, 0.96, "neutral", { look: 0.0, seed: 2 }), pp(X, "POV", 3, -2.26, 1.44, "neutral", { look: 0.15, seed: 3 }), pp(X, "POV", 4, 0.0, 1.08, "neutral", { look: -0.25, seed: 0 }), pp(X, "POV", 5, 2.26, 1.56, "neutral", { look: 0.25, seed: 1 }), pp(X, "POV", 6, 3.53, 1.2, "neutral", { look: 0.0, seed: 2 }), pp(X, "POV", 0, 5.79, 0.84, "neutral", { look: 0.15, seed: 3 }), pp(X, "POV", 1, 8.05, 1.32, "neutral", { look: -0.25, seed: 0 }), pp(X, "POV", 2, -6.88, -1.14, "neutral", { look: 0.25, seed: 1 })], fx: [{ k: 'birds', a: A[5], b: A[6] - 1, at: [X, DK + 7.5, -30], n: 6, dir: 1, off: 15 }, { k: 'burst', a: A[5] + 40, at: [X + 0.0, DK + 1.8, 3.2], s: 1.2 }] }), nocut: true }, cam: [{ f: Math.round(A[5] + (A[6] - 1 + 1 - (A[5])) * 0.3), at: [X + -6.0, DK + 1.8, 0.0], d: 11, az: 30, el: 5, fov: 46 }, { f: Math.round(A[5] + (A[6] - 1 + 1 - (A[5])) * 0.55) - 1, at: [X + 4.0, DK + 1.8, 0.0], d: 11, az: 18, el: 5, fov: 46, ease: "lin" }], nocut: true, vary: false, glide: true }, { ...{ ...S('b5_2', Math.round(A[5] + (A[6] - 1 + 1 - (A[5])) * 0.55), A[6] - 1, X, "golden", { h: 2.6, d0: 25.0, d1: 19.0, el: 11, cx: 0.0, cz: -1.5, hero: { hero: 'none', wide: true }, vary: false, nocut: true, trans: 'cut', actors: [pp(X, "JOR", 0, 0.0, -0.4, "shock", { pose: 'react' }), pp(X, "POV", 0, -8.05, 0.84, "neutral", { look: -0.25, seed: 0 }), pp(X, "POV", 1, -5.79, 1.32, "neutral", { look: 0.25, seed: 1 }), pp(X, "POV", 2, -3.53, 0.96, "neutral", { look: 0.0, seed: 2 }), pp(X, "POV", 3, -2.26, 1.44, "neutral", { look: 0.15, seed: 3 }), pp(X, "POV", 4, 0.0, 1.08, "neutral", { look: -0.25, seed: 0 }), pp(X, "POV", 5, 2.26, 1.56, "neutral", { look: 0.25, seed: 1 }), pp(X, "POV", 6, 3.53, 1.2, "neutral", { look: 0.0, seed: 2 }), pp(X, "POV", 0, 5.79, 0.84, "neutral", { look: 0.15, seed: 3 }), pp(X, "POV", 1, 8.05, 1.32, "neutral", { look: -0.25, seed: 0 }), pp(X, "POV", 2, -6.88, -1.14, "neutral", { look: 0.25, seed: 1 })], fx: [{ k: 'birds', a: A[5], b: A[6] - 1, at: [X, DK + 7.5, -30], n: 6, dir: 1, off: 15 }, { k: 'burst', a: A[5] + 40, at: [X + 0.0, DK + 1.8, 3.2], s: 1.2 }] }), nocut: true }, cam: [{ f: Math.round(A[5] + (A[6] - 1 + 1 - (A[5])) * 0.55), at: [X + 0.0, DK + 1.4, 0.0], d: 15, az: 8, el: 12, fov: 48 }, { f: A[6] - 1, at: [X + 0.0, DK + 1.0, -3.0], d: 34, az: -16, el: 30, fov: 48 }], nocut: true, vary: false, glide: true },
+    S('b6', A[6], Math.round(A[6] + (A[7] - 1 + 1 - (A[6])) * 0.36) - 1, X, "golden", { h: 2.3, d0: 8.4, d1: 7.4, hero: { hero: 'any', frame: 'medium', minH: 0.07, main: 2 }, trans: 'dissolve', actors: [pp(X, "JOR", 0, -1.15, 1.3, "suspicious", { pose: 'talk', inter: { k: 'nod', a: Math.round(A[6] + (A[7] - 1 - (A[6])) * 0.12), b: Math.round(A[6] + (A[7] - 1 - (A[6])) * 0.82), dir: 1, n: 2, ph: 0 } }), pp(X, "JOR2", 0, 1.15, 1.0, "laugh", { pose: 'talk', inter: { k: 'lean', a: Math.round(A[6] + (A[7] - 1 - (A[6])) * 0.2), b: Math.round(A[6] + (A[7] - 1 - (A[6])) * 0.9), dir: -1, n: 2, ph: 3.14 } })], props: [{ asset: "buildings/shop", at: [X + -4.8, -11.0], s: 1.05, ry: 0.35, drop: false }, { asset: "kit/starlink_sat", at: [X + 0.0, -2.3], s: 1.0, drop: false }], fx: [{ k: 'map', a: WS(93, -2), b: Math.min(A[7] - 1, WS(93, -2) + 54), text: "MUNDO" }] }), { ...S('b6_d', Math.round(A[6] + (A[7] - 1 + 1 - (A[6])) * 0.36), Math.round(A[6] + (A[7] - 1 + 1 - (A[6])) * 0.6) - 1, X, "golden", { h: 2.3, d0: 8.4, d1: 7.4, hero: { hero: 'none', detalhe: true }, trans: 'cut', actors: [pp(X, "JOR", 0, -1.15, 1.3, "suspicious", { pose: 'stand' }), pp(X, "JOR2", 0, 1.15, 1.0, "laugh", { pose: 'stand' })], props: [{ asset: "buildings/shop", at: [X + -4.8, -11.0], s: 1.05, drop: false, ry: 0.35, drop: false }, { asset: "kit/starlink_sat", at: [X + 0.0, -2.3], s: 1.0, drop: false }], fx: [{ k: 'map', a: WS(93, -2), b: Math.min(A[7] - 1, WS(93, -2) + 54), text: "MUNDO" }] }), cam: [{ f: Math.round(A[6] + (A[7] - 1 + 1 - (A[6])) * 0.36), at: [X + 0.0, DK + 0.75, -2.3], d: 4.2, az: -14, el: 10, fov: 44 }, { f: Math.round(A[6] + (A[7] - 1 + 1 - (A[6])) * 0.6) - 1, at: [X + 0.0, DK + 0.75, -2.3], d: 3.4, az: -8, el: 9, fov: 44 }], nocut: true, vary: false, glide: true, glideN: 34 }, { ...S('b6_v', Math.round(A[6] + (A[7] - 1 + 1 - (A[6])) * 0.6), A[7] - 1, X, "golden", { h: 2.3, d0: 8.4, d1: 7.4, hero: { hero: 'any', frame: 'medium', minH: 0.07, main: 2 }, trans: 'cut', actors: [pp(X, "JOR", 0, -1.15, 1.3, "suspicious", { pose: 'talk', inter: { k: 'nod', a: Math.round(A[6] + (A[7] - 1 - (A[6])) * 0.12), b: Math.round(A[6] + (A[7] - 1 - (A[6])) * 0.82), dir: 1, n: 2, ph: 0 } }), pp(X, "JOR2", 0, 1.15, 1.0, "laugh", { pose: 'talk', inter: { k: 'lean', a: Math.round(A[6] + (A[7] - 1 - (A[6])) * 0.2), b: Math.round(A[6] + (A[7] - 1 - (A[6])) * 0.9), dir: -1, n: 2, ph: 3.14 } })], props: [{ asset: "buildings/shop", at: [X + -4.8, -11.0], s: 1.05, drop: false, ry: 0.35, drop: false }, { asset: "kit/starlink_sat", at: [X + 0.0, -2.3], s: 1.0, drop: false }], fx: [{ k: 'map', a: WS(93, -2), b: Math.min(A[7] - 1, WS(93, -2) + 54), text: "MUNDO" }] }), glide: true, glideN: 34 },
+    S('b7', A[7], Math.round(A[7] + (A[8] - 1 + 1 - (A[7])) * 0.36) - 1, X, "golden", { h: 2.3, d0: 8.4, d1: 7.4, hero: { hero: 'any', frame: 'medium', minH: 0.07, main: 2 }, trans: 'dissolve', actors: [pp(X, "AST", 0, -1.15, 1.3, "smug", { pose: 'talk', inter: { k: 'lunge', a: Math.round(A[7] + (A[8] - 1 - (A[7])) * 0.12), b: Math.round(A[7] + (A[8] - 1 - (A[7])) * 0.82), dir: 1, n: 2, ph: 0 } }), pp(X, "JOR2", 0, 1.15, 1.0, "suspicious", { pose: 'talk', inter: { k: 'nod', a: Math.round(A[7] + (A[8] - 1 - (A[7])) * 0.2), b: Math.round(A[7] + (A[8] - 1 - (A[7])) * 0.9), dir: -1, n: 2, ph: 3.14 } })], props: [{ asset: "buildings/house_two", at: [X + 4.8, -11.0], s: 1.05, ry: -0.35, drop: false }, { asset: "kit/falcon_air", at: [X + 1.5, -3], s: 1.0, drop: false }, { asset: "kit/starlink_sat", at: [X + 0.0, -2.3], s: 1.0, drop: false }] }), { ...S('b7_d', Math.round(A[7] + (A[8] - 1 + 1 - (A[7])) * 0.36), Math.round(A[7] + (A[8] - 1 + 1 - (A[7])) * 0.6) - 1, X, "golden", { h: 2.3, d0: 8.4, d1: 7.4, hero: { hero: 'none', detalhe: true }, trans: 'cut', actors: [pp(X, "AST", 0, -1.15, 1.3, "smug", { pose: 'stand' }), pp(X, "JOR2", 0, 1.15, 1.0, "suspicious", { pose: 'stand' })], props: [{ asset: "buildings/house_two", at: [X + 4.8, -11.0], s: 1.05, drop: false, ry: -0.35, drop: false }, { asset: "kit/falcon_air", at: [X + 1.5, -3], s: 1.0, drop: false }, { asset: "kit/starlink_sat", at: [X + 0.0, -2.3], s: 1.0, drop: false }] }), cam: [{ f: Math.round(A[7] + (A[8] - 1 + 1 - (A[7])) * 0.36), at: [X + 0.0, DK + 0.75, -2.3], d: 4.2, az: -14, el: 10, fov: 44 }, { f: Math.round(A[7] + (A[8] - 1 + 1 - (A[7])) * 0.6) - 1, at: [X + 0.0, DK + 0.75, -2.3], d: 3.4, az: -8, el: 9, fov: 44 }], nocut: true, vary: false, glide: true, glideN: 34 }, { ...S('b7_v', Math.round(A[7] + (A[8] - 1 + 1 - (A[7])) * 0.6), A[8] - 1, X, "golden", { h: 2.3, d0: 8.4, d1: 7.4, hero: { hero: 'any', frame: 'medium', minH: 0.07, main: 2 }, trans: 'cut', actors: [pp(X, "AST", 0, -1.15, 1.3, "smug", { pose: 'talk', inter: { k: 'lunge', a: Math.round(A[7] + (A[8] - 1 - (A[7])) * 0.12), b: Math.round(A[7] + (A[8] - 1 - (A[7])) * 0.82), dir: 1, n: 2, ph: 0 } }), pp(X, "JOR2", 0, 1.15, 1.0, "suspicious", { pose: 'talk', inter: { k: 'nod', a: Math.round(A[7] + (A[8] - 1 - (A[7])) * 0.2), b: Math.round(A[7] + (A[8] - 1 - (A[7])) * 0.9), dir: -1, n: 2, ph: 3.14 } })], props: [{ asset: "buildings/house_two", at: [X + 4.8, -11.0], s: 1.05, drop: false, ry: -0.35, drop: false }, { asset: "kit/falcon_air", at: [X + 1.5, -3], s: 1.0, drop: false }, { asset: "kit/starlink_sat", at: [X + 0.0, -2.3], s: 1.0, drop: false }] }), glide: true, glideN: 34 },
     S('b8', A[8], A[9] - 1, X, "golden", { h: 2.5, d0: 10.0, d1: 8.8, cx: 0.0, cz: 1.2, hero: { hero: 'any', frame: 'medium', minH: 0.07, main: 1 }, trans: 'dissolve', actors: [pp(X, "JOR", 0, 0.0, 1.3, "shock", { pose: 'react' }), pp(X, "POV", 0, -3.85, -3.36, "neutral", { look: -0.25, seed: 0 }), pp(X, "POV", 1, -1.79, -2.88, "neutral", { look: 0.25, seed: 1 }), pp(X, "POV", 2, 0.27, -3.24, "neutral", { look: 0.0, seed: 2 }), pp(X, "POV", 3, 1.34, -2.76, "neutral", { look: 0.15, seed: 3 }), pp(X, "POV", 4, 3.4, -3.12, "neutral", { look: -0.25, seed: 0 }), pp(X, "POV", 5, -2.14, -4.74, "neutral", { look: 0.25, seed: 1 }), pp(X, "POV", 6, -1.07, -5.1, "neutral", { look: 0.0, seed: 2 }), pp(X, "POV", 0, 0.99, -5.46, "neutral", { look: 0.15, seed: 3 }), pp(X, "POV", 1, 3.05, -4.98, "neutral", { look: -0.25, seed: 0 }), pp(X, "POV", 2, 4.12, -5.34, "neutral", { look: 0.25, seed: 1 })], props: [{ asset: "buildings/shop", at: [X + -4.8, -11.0], s: 1.05, ry: 0.35, drop: false }], fx: [{ k: 'birds', a: A[8], b: A[9] - 1, at: [X, DK + 7.5, -30], n: 6, dir: 1, off: 8 }] }),
-    S('b9', A[9], A[10] - 1, X, "golden", { h: 2.3, d0: 8.4, d1: 7.4, hero: { hero: 'any', frame: 'medium', minH: 0.07, main: 2 }, trans: 'dissolve', actors: [pp(X, "AST", 0, -1.15, 1.3, "laugh", { pose: 'talk', inter: { k: 'step', a: Math.round(A[9] + (A[10] - 1 - (A[9])) * 0.12), b: Math.round(A[9] + (A[10] - 1 - (A[9])) * 0.82), dir: 1, n: 2, ph: 0 } }), pp(X, "JOR2", 0, 1.15, 1.0, "laugh", { pose: 'talk', inter: { k: 'nod', a: Math.round(A[9] + (A[10] - 1 - (A[9])) * 0.2), b: Math.round(A[9] + (A[10] - 1 - (A[9])) * 0.9), dir: -1, n: 2, ph: 3.14 } })], props: [{ asset: "buildings/house_two", at: [X + 4.8, -11.0], s: 1.05, ry: -0.35, drop: false }, { asset: "kit/rocket", at: [X + 0.5, 1.2], s: 0.6, drop: false }] })
+    S('b9', A[9], A[10] - 1, X, "golden", { h: 2.3, d0: 8.4, d1: 7.4, hero: { hero: 'any', frame: 'medium', minH: 0.07, main: 2 }, trans: 'dissolve', actors: [pp(X, "AST", 0, -1.15, 1.3, "laugh", { pose: 'talk', inter: { k: 'step', a: Math.round(A[9] + (A[10] - 1 - (A[9])) * 0.12), b: Math.round(A[9] + (A[10] - 1 - (A[9])) * 0.82), dir: 1, n: 2, ph: 0 } }), pp(X, "JOR2", 0, 1.15, 1.0, "laugh", { pose: 'talk', inter: { k: 'nod', a: Math.round(A[9] + (A[10] - 1 - (A[9])) * 0.2), b: Math.round(A[9] + (A[10] - 1 - (A[9])) * 0.9), dir: -1, n: 2, ph: 3.14 } })], props: [{ asset: "buildings/house_two", at: [X + 4.8, -11.0], s: 1.05, ry: -0.35, drop: false }, { asset: "kit/rocket", at: [X + 0.5, 1.2], s: 0.6, drop: false }, { asset: "kit/starlink_sat", at: [X + 0.0, -2.3], s: 1.0, drop: false }] })
   ],
 };
 SPEC.fit = {"b5":1.12,"b6~2":1.12};
